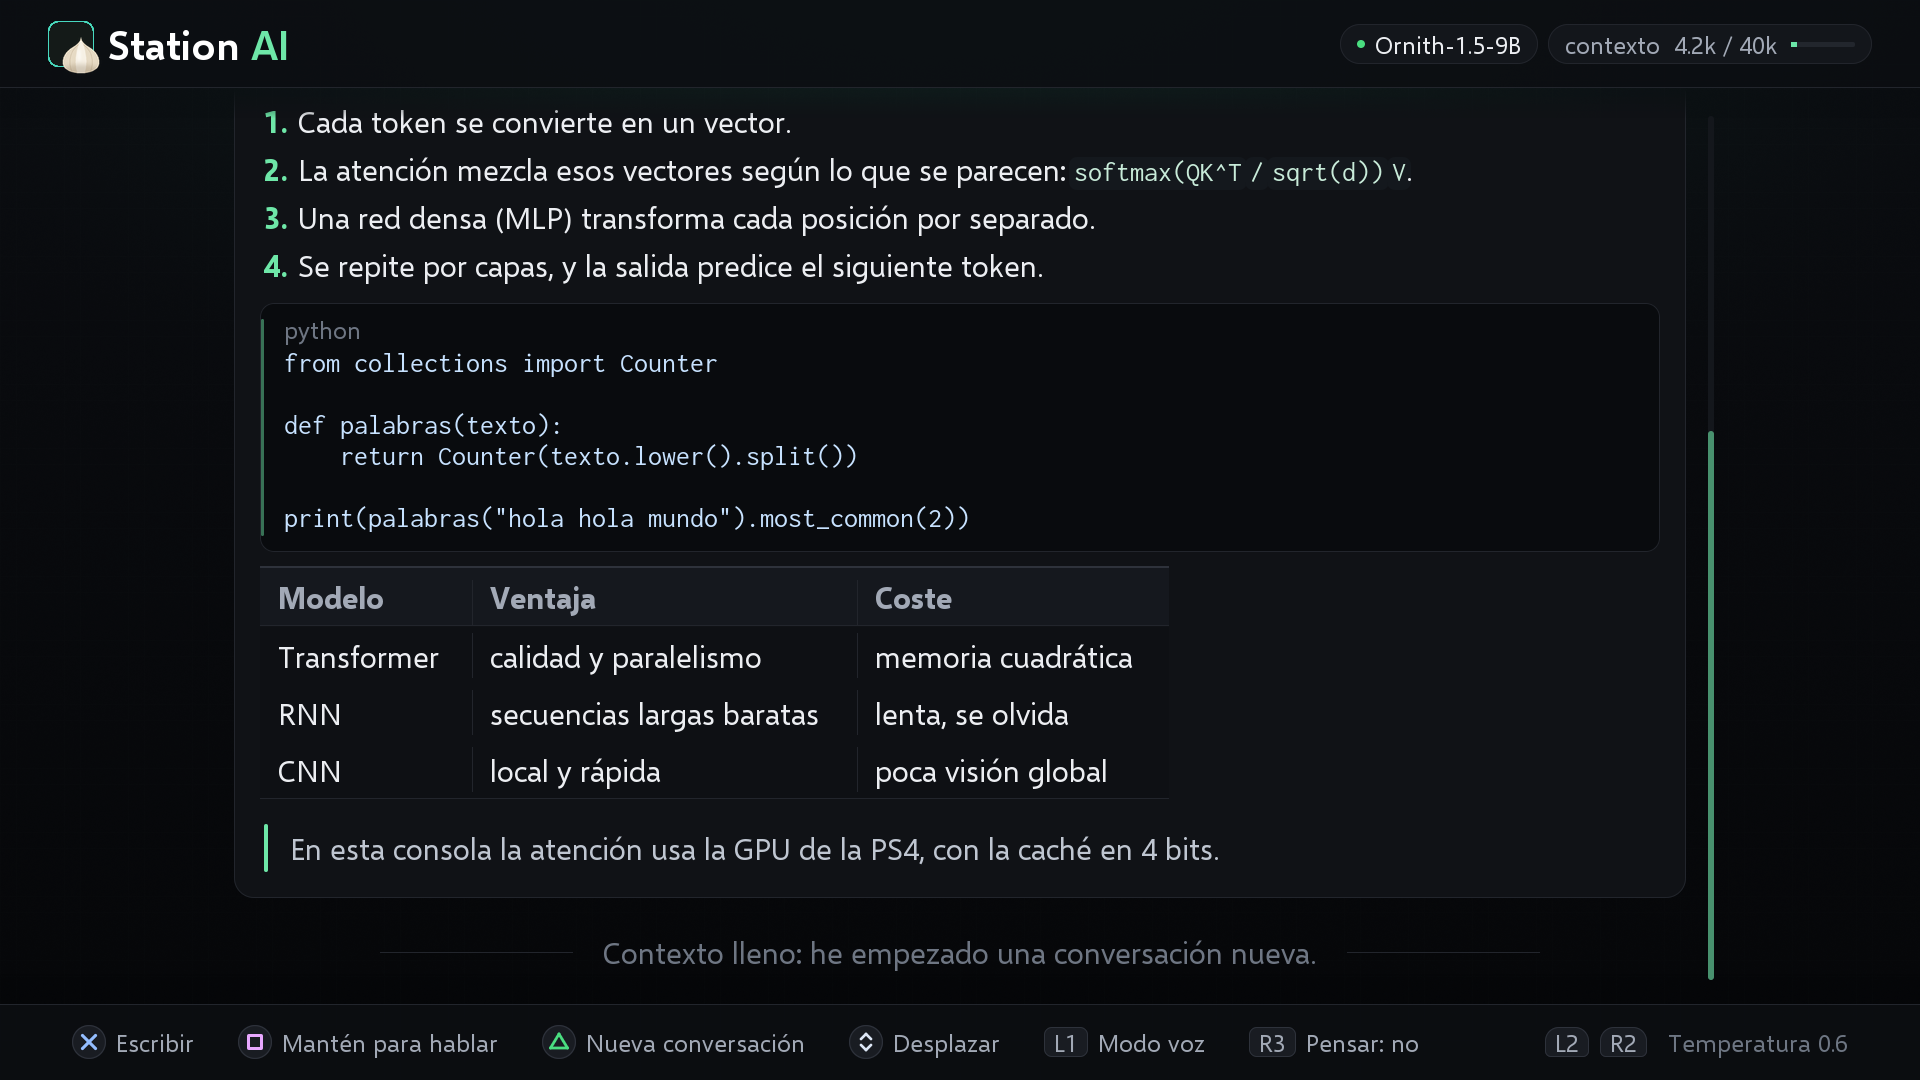
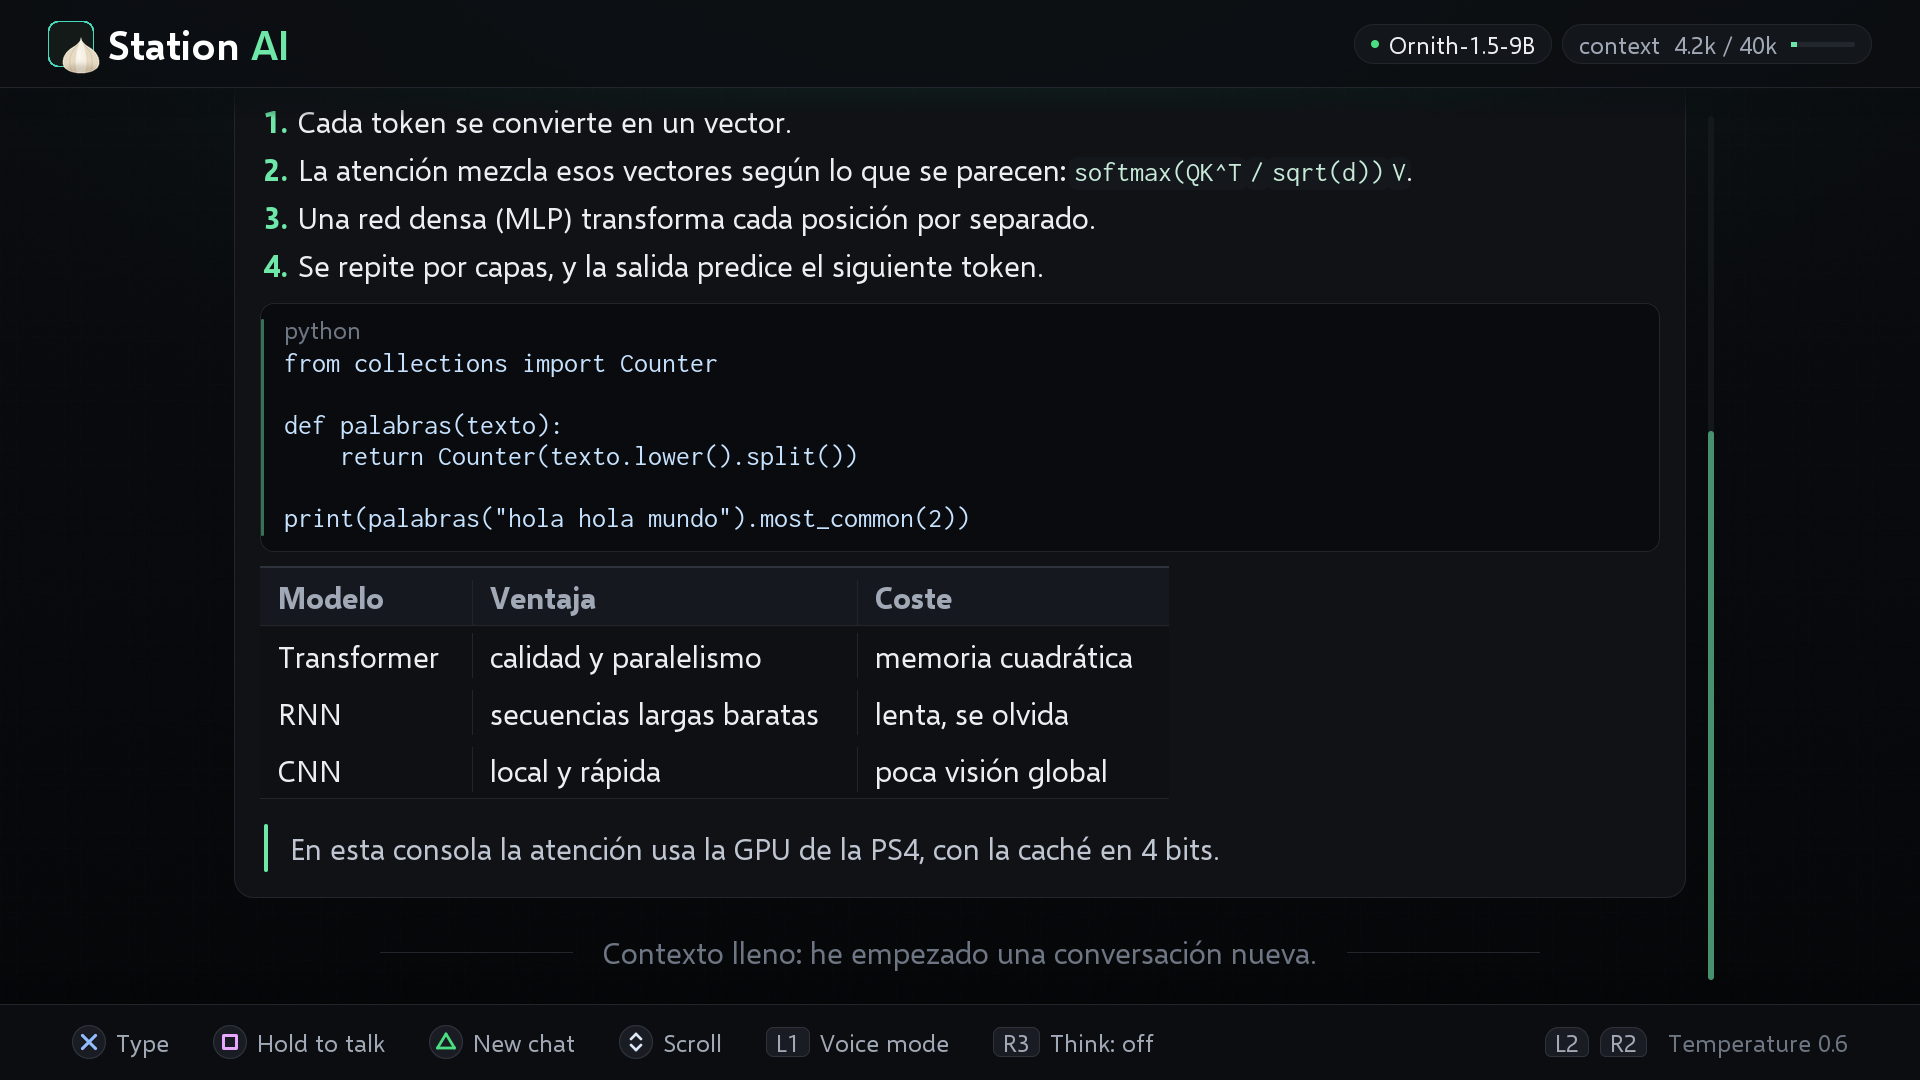
panel: a card under each section with the exact command or file, and honest labels

Changed region(s): [[0.0625, 0.9472, 0.625, 0.9778], [0.7188, 0.0306, 0.875, 0.0611], [0.6562, 0.9472, 0.7188, 0.9778]]

diff --git a/pc/ui_preview.c b/pc/ui_preview.c
@@ -155,33 +155,46 @@ int main(int argc, char** argv) {
             pv.rows[0] = (PanelRow){S_P_ENABLED, "", PANEL_SWITCH, 1};
             pv.rows[1] = (PanelRow){S_P_ADDRESS, "192.168.1.42:8080", PANEL_VALUE, 0};
             pv.rows[2] = (PanelRow){S_P_PORT, "8080", PANEL_STEP, 0};
-            pv.rows[3] = (PanelRow){S_P_KEY, "guardada", PANEL_ACTION, 0};
+            pv.rows[3] = (PanelRow){S_P_KEY, "\xe2\x80\xa2\xe2\x80\xa2\xe2\x80\xa2\xe2\x80\xa2\xe2\x80\xa2\xe2\x80\xa2",
+                                    PANEL_ACTION, 0};
             pv.rows[4] = (PanelRow){S_P_REQUESTS, "37", PANEL_VALUE, 0};
             pv.n_rows = 5;
             pv.status = "POST /v1/chat/completions · /v1/completions · /v1/responses · /v1/images/generations";
+            pv.tip[0] = "curl http://192.168.1.42:8080/v1/chat/completions \\";
+            pv.tip[1] = "  -H 'Content-Type: application/json' \\";
+            pv.tip[2] = "  -d '{\"model\": \"Ornith-1.5-9B\", \"messages\": []}'";
         } else if (pv.tab == 1) {
             pv.rows[0] = (PanelRow){S_P_BACKEND, "http://192.168.1.10:8080/v1", PANEL_VALUE, 0};
             pv.rows[1] = (PanelRow){S_MODEL_LABEL, "sdxl", PANEL_STEP, 0};
-            pv.rows[2] = (PanelRow){S_P_KEY, "sin clave", PANEL_ACTION, 0};
+            pv.rows[2] = (PanelRow){S_P_KEY, "not set", PANEL_ACTION, 0};
             pv.rows[3] = (PanelRow){S_P_SAVED, "/data/station-ai/images", PANEL_VALUE, 0};
             pv.rows[4] = (PanelRow){S_P_CLEAR, "", PANEL_ACTION, 0};
             pv.n_rows = 5;
-            pv.status = "Las imágenes que llegan se guardan y se muestran en la conversación.";
+            pv.status = "/data/station_images.json";
+            pv.tip[0] = "{ \"base_url\": \"http://<image server>:8000/v1\",";
+            pv.tip[1] = "  \"api_key\": \"…\", \"model\": \"sdxl-turbo\" }";
+            pv.tip[2] = "tools > images > generate  \xe2\x86\x92  saved, shown in chat";
         } else if (pv.tab == 2) {
             pv.rows[0] = (PanelRow){S_P_ENGINE, "Ornith-1.5-9B", PANEL_VALUE, 0};
             pv.rows[1] = (PanelRow){S_TEMPERATURE, "0.70", PANEL_STEP, 0};
-            pv.rows[2] = (PanelRow){S_THINK_ON_HINT, "", PANEL_SWITCH, 0};
+            pv.rows[2] = (PanelRow){S_P_THINKING, "", PANEL_SWITCH, 1};
             pv.rows[3] = (PanelRow){S_P_THINK_CAP, "1024", PANEL_STEP, 0};
-            pv.rows[4] = (PanelRow){S_CONTEXT, "4.2k / 40k", PANEL_VALUE, 0};
-            pv.rows[5] = (PanelRow){S_VOICE_MODE, "lista", PANEL_VALUE, 0};
+            pv.rows[4] = (PanelRow){S_P_CONTEXT, "4.2k / 40k", PANEL_VALUE, 0};
+            pv.rows[5] = (PanelRow){S_VOICE_MODE, "ready", PANEL_VALUE, 0};
             pv.n_rows = 6;
-            pv.status = "L2 y R2 cambian el valor; ✕ enciende y apaga.";
+            pv.status = "L2 / R2 change the value; \xe2\x9c\x95 turns it on and off.";
+            pv.tip[0] = "temperature  0 = steady, 1.5 = wild";
+            pv.tip[1] = "cap          reasoning tokens one reply may spend";
+            pv.tip[2] = "thinking     saved in /data/garlic_think.txt";
         } else if (pv.tab == 3) {
             pv.rows[0] = (PanelRow){S_P_LANGUAGE, "English", PANEL_STEP, 0};
             pv.rows[1] = (PanelRow){S_P_DOWNLOAD, "", PANEL_ACTION, 0};
             pv.rows[2] = (PanelRow){S_P_CLEAR_CHAT, "", PANEL_ACTION, 0};
             pv.n_rows = 3;
-            pv.status = "El idioma se guarda y vuelve en el próximo arranque.";
+            pv.status = "/data/station_lang.txt";
+            pv.tip[0] = "/data/garlic_api_port.txt   the port the API listens on";
+            pv.tip[1] = "/data/garlic_api_key.txt    the key, if one is set";
+            pv.tip[2] = "/data/garlic_think.txt      thinking, and its cap";
         } else {
             pv.rows[0] = (PanelRow){S_P_VERSION, "1.22", PANEL_VALUE, 0};
             pv.rows[1] = (PanelRow){S_P_ENGINE, "Ornith-1.5-9B · q4s", PANEL_VALUE, 0};
@@ -189,7 +202,9 @@ int main(int argc, char** argv) {
             pv.rows[3] = (PanelRow){S_P_MEM, "1 812 MiB", PANEL_VALUE, 0};
             pv.rows[4] = (PanelRow){S_P_REQUESTS, "37", PANEL_VALUE, 0};
             pv.n_rows = 5;
-            pv.status = "Station AI · 100 % local · sin internet";
+            pv.tip[0] = "Station AI \xc2\xb7 1.22";
+            pv.tip[1] = "github.com/mobjakdebug/garlicornith";
+            pv.tip[2] = "PS4 payload \xc2\xb7 100% local";
         }
         draw_panel(&pv);
     } else if (!strcmp(screen, "picture")) {

diff --git a/chat/ui.c b/chat/ui.c
@@ -136,7 +136,7 @@ static const char* strings[N_STRINGS][N_LANGS] = {
     [S_P_KEY] = {"Clave", "Key", "Chave", "Ключ"},
     [S_P_NO_KEY] = {"sin clave", "none", "sem chave", "без ключа"},
     [S_P_SET] = {"Poner una clave", "Set a key", "Definir uma chave", "Задать ключ"},
-    [S_P_CLEAR] = {"Quitarla", "Remove it", "Remover", "Убрать"},
+    [S_P_CLEAR] = {"Borrar las imágenes", "Clear the images", "Apagar as imagens", "Удалить картинки"},
     [S_P_REQUESTS] = {"Solicitudes", "Requests", "Requisições", "Запросы"},
     [S_P_BACKEND] = {"Servidor de imágenes", "Image backend", "Servidor de imagens", "Сервер картинок"},
     [S_P_FOLDER] = {"Carpeta", "Folder", "Pasta", "Папка"},
@@ -212,6 +212,8 @@ static const char* strings[N_STRINGS][N_LANGS] = {
         "целиком в одном блоке ```python."},
     [S_PY_INPUT] = {"Responde al programa…", "Answer the program…", "Responda ao programa…", "Ответьте программе…"},
     [S_VOICE_MODE] = {"Modo voz", "Voice mode", "Modo voz", "Голосовой режим"},
+    [S_P_THINKING] = {"Razonamiento", "Thinking", "Raciocínio", "Размышления"},
+    [S_P_CONTEXT] = {"Contexto", "Context", "Contexto", "Контекст"},
     [S_THINKING] = {"Pensando…", "Thinking…", "Pensando…", "Думаю…"},
     [S_LISTENING_SHORT] = {"Te escucho…", "Listening…", "Estou ouvindo…", "Слушаю…"},
     [S_VOICE_LOADING] = {"Preparando la voz…", "Getting the voice ready…", "Preparando a voz…", "Готовлю голос…"},
@@ -2309,6 +2311,16 @@ void draw_panel(const PanelView* pv) {
     if (pv->status && pv->status[0]) {
         fill(cx, ry, cw, 1, C_LINE);
         draw_str(&font_small, cx, ry + 30, pv->status, C_TEXT_MUTED);
+    }
+    // the card at the bottom: the command or the file, as it would be typed (nothing to guess at)
+    int ny = ry + 66;
+    if (pv->tip[0] && ny + 150 < SCREEN_H - FOOTER_H) {
+        rrect(cx - 26, ny, cw + 52, 136, 16, C_CODE, 255);
+        rrect_line(cx - 26, ny, cw + 52, 136, 16, 1, C_LINE, 255);
+        rrect(cx - 26, ny + 20, 3, 96, 2, C_ACCENT, 150);
+        for (int i = 0; i < 3; i++)
+            if (pv->tip[i] && pv->tip[i][0])
+                draw_str(&mono, cx + 8, ny + 26 + i * 34, pv->tip[i], i ? C_TEXT_DIM : C_TEXT);
     }
 
     static const Hint hints[] = {{BTN_UPDOWN, S_P_MOVE}, {BTN_L1, S_P_SECTION}, {BTN_CROSS, S_P_OPEN},

diff --git a/chat/ui.h b/chat/ui.h
@@ -34,6 +34,7 @@ typedef enum {
     S_P_ADDRESS, S_P_PORT, S_P_KEY, S_P_NO_KEY, S_P_SET, S_P_CLEAR, S_P_REQUESTS, S_P_BACKEND, S_P_FOLDER,
     S_P_THINK_CAP, S_P_LANGUAGE, S_P_DOWNLOAD, S_P_CLEAR_CHAT, S_P_VERSION, S_P_SECTION, S_P_CHANGE, S_P_OPEN,
     S_P_BACK, S_P_NOTHING, S_P_SAVED, S_P_ENGINE, S_P_MOVE, S_P_MEM, S_P_KERNELS, S_P_ABOUT, S_MODEL_LABEL,
+    S_P_THINKING, S_P_CONTEXT,
     N_STRINGS
 } StrId;
 const char* tr(StrId id);
@@ -125,6 +126,7 @@ typedef struct {
     int n_rows;
     PanelRow rows[PANEL_ROWS];
     const char* status;             // one line under the rows (an address, a note)
+    const char* tip[3];             // a card at the bottom: the exact command or file this section is about
     int api_on;                     // the chip in the header
     const char* api_addr;
 } PanelView;
